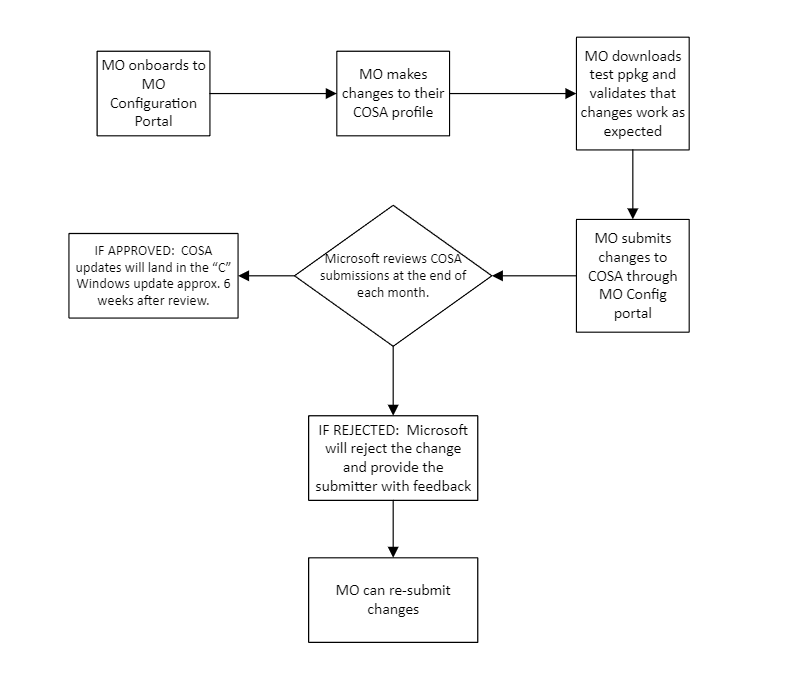
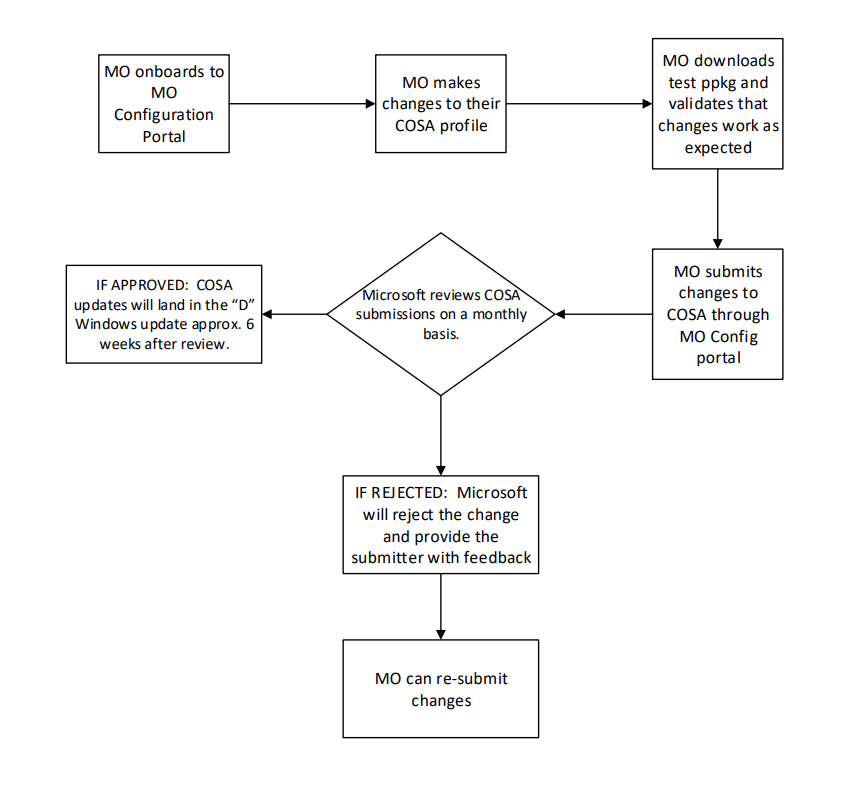
Grammar and updated processes based on comments

Changed region(s): [[0.061, 0.0304, 0.9454, 0.8217], [0.3964, 0.7913, 0.6404, 0.9435]]

diff --git a/windows-driver-docs-pr/mobilebroadband/cosa-overview.md b/windows-driver-docs-pr/mobilebroadband/cosa-overview.md
@@ -16,7 +16,7 @@ Here are some frequently asked questions about COSA:
 
 ## What are the settings that mobile operators can specify in COSA?
 
-The settings are largely the same as what MOs configured in apndatabase.xml, with a few exceptions and new additions. For details, see the tables in [Desktop COSA database settings](desktop-cosa-database-settings.md).
+For details, see the tables in [Desktop COSA database settings](desktop-cosa-database-settings.md).
 
 ## What events trigger the application of new mobile operator settings?
 
@@ -28,7 +28,7 @@ These events trigger the Windows provisioning engine to look for a change in set
 
 ## What SIM information from modems does COSA use?
 
-For MO/MVNO discovery, Windows tries to make the best match for an available profile in the COSA database using using identifiers such as MCC / MNC, ICCID, IMSI, SPN, GID1 from the SIM in the modem.
+For MO/MVNO discovery, Windows tries to make the best match for an available profile in the COSA database using identifiers such as MCC / MNC, ICCID, IMSI, SPN, GID1 from the SIM in the modem.
 
 ## What is a COSA profile?
 
@@ -40,7 +40,7 @@ Each COSA profile contains a set of targets used by Windows to match the profile
 
 ## Can OEMs customize COSA?
 
-OEMs can extend COSA to meet their needs. Windows will prioritize the OEM customization. For more information on OEM customizations of COSA, see [Customize the Country and Operator Settings Asset](/windows-hardware/customize/desktop/customize-cosa).
+Microsoft strongly encourages mobile operators to update the central database via the [MO Configuration Portal](/mobile-operator-configuration-portal-guide.md). However, there are some scenarios where an OEM customization of COSA may be more suitable for their devices or manufacturing timelines. OEMs can extend COSA to meet their needs. Windows will prioritize the OEM customization. For more information on OEM customizations of COSA, see [Customize the Country and Operator Settings Asset](/windows-hardware/customize/desktop/customize-cosa).
 
 OEMs can, in some cases, make modifications to COSA on behalf of an MO. See the [Mobile operator configuration portal guide](mobile-operator-configuration-portal-guide.md).
 
@@ -48,9 +48,9 @@ OEMs can, in some cases, make modifications to COSA on behalf of an MO. See the 
 
 In versions of Windows before Windows 10, version 1703, MOs could specify an auto-connect order. Windows 10, version 1703 and later continue to use a round-robin approach through all available APNs, but there is no longer a specific order that the algorithm uses.
 
-## Where is the COSA database stored, and can it be visually inspected like apndatabase.xml?
+## Where is the COSA database stored and can it be visually inspected?
 
-COSA is in the format of a Windows 10 provisioning package (.ppkg). It is in the Windows\Provisioning\COSA\Microsoft folder. You can use a third-party tool, such as [7-Zip File Manager](https://www.7-zip.org/), to visually inspect its contents.
+COSA is in the format of a Windows provisioning package (.ppkg). It is in the Windows\Provisioning\COSA\Microsoft folder. You can use a third-party tool, such as [7-Zip File Manager](https://www.7-zip.org/), to visually inspect its contents.
 
 Extensions to COSA, if specified in the device image, are in the COSA\OEM folder. For more information, see [Customize the Country and Operator Settings Asset](/windows-hardware/customize/desktop/customize-cosa).
 

diff --git a/windows-driver-docs-pr/mobilebroadband/planning-your-desktop-cosa-database-submission.md b/windows-driver-docs-pr/mobilebroadband/planning-your-desktop-cosa-database-submission.md
@@ -33,13 +33,13 @@ As part of the COSA update process, Microsoft does not test or validate the chan
 
 ## COSA submission reviewal process
 
-On the last Friday of each month, Microsoft performs a review of every COSA change submitted through the MO Config Portal. At that time, Microsoft will evaluate the submission based on:
+Microsoft performs a review of every COSA change submitted through the MO Config Portal. At that time, Microsoft will evaluate the submission based on:
 
 - A visual inspection of the changes
 - Confirmation from the submitter that the changes have been tested and confirmed to work as expected
 - In cases where a non-MO has submitted a COSA change, Microsoft will look for written verification from the MO that the change is approved to be submitted by the submitter. Please work with your Microsoft contact (CSS, WE2, Surface, etc.) to provide this information.
 
-If Microsoft determines that the requested change is in good standing condition and ready to be serviced into Windows. Microsoft will approve the change and submit it to be serviced in the next possible "C" release. This is typically ~6 weeks before the release. For example, if a COSA change is submitted to the MOCP on June 15th, that submission will be reviewed by Microsoft on the last Friday of June. If approved, the submission will be submitted for the August "C" release. The submitter will see the submission in their MOCP account updated to show a status of "Approved".
+If Microsoft determines that the requested change is in good standing condition and ready to be serviced into Windows. Microsoft will approve the change and submit it to be serviced in the next possible "D" release. A Windows "D" release, is the release of windows on the 4th week of the month. COSA submissions are reviewed ~6 weeks before a release. For example, if an MO is targetting a COSA change to be serviced to Windows in October. The COSA change should be submitted by the second week of September. The submitter will see the submission in their MOCP account updated to show a status of "Approved".
 
 If the requested change is not found to meet the above criteria, Microsoft will reject the submission. If rejected, the submitter will see the submission in their MOCP account updated to show a status of "Rejected". The submission may also contain a message from the COSA review team containing an explanation for the rejection and recommended next steps. Microsoft will NOT send e-mail notifications to the submitter. Submitter must view status updates form the MOCP.
 
